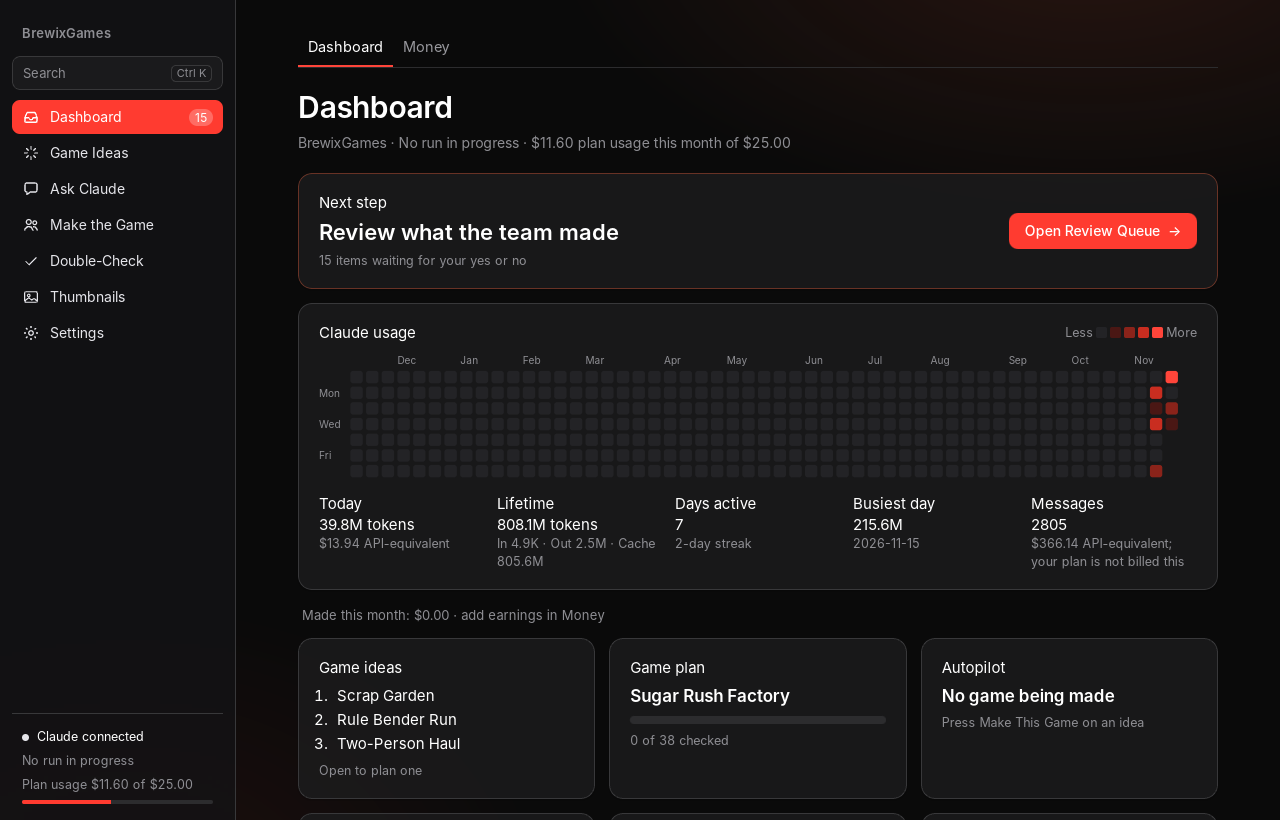
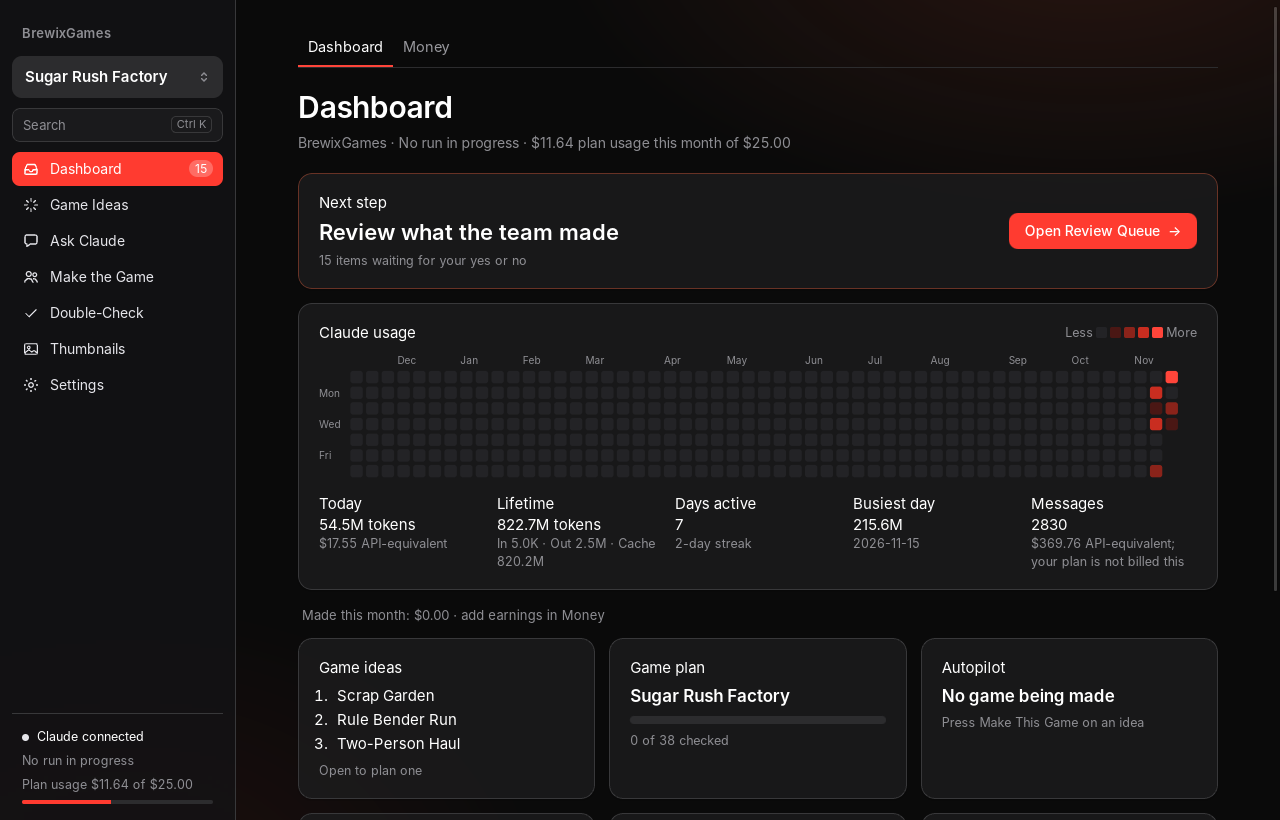
One game picker for every tab; Autopilot is just "chime in"; nothing gets stuck
- A game picker at the top of the sidebar (with "+ New game"). Every tab
  follows it: Autopilot, Game Brief, Game Plan, Graphics, Changes, Player
  Test, Thumbnails and Ask Claude. It is remembered after a restart, and
  starting a brief or a game switches to it. The per-page pickers are gone.
- Make the Game opens on Autopilot. The page is now: a big chime-in box,
  anything ready for review (Approve, or write notes and Approve sends
  them back for a revision first, with the agents' questions listed), a
  six-step progress line, and who is working now. Budget, pause, every
  job and the team board are under "Everything the team did". A paused
  game or one waiting for budget says so at the top with one button.
- Nothing is ever "stuck" and there is no Try Again: after a job fails all
  its tries, Lead works out a new approach; after two rescues it keeps
  trying every 30 minutes until it works (the game's budget is the only
  limit). Andrew is told once if a job is having a hard time.

Claude-Session: https://claude.ai/code/session_01JP9P4TNkw9s9Dv5PKeAm76

diff --git a/app/ui/app.js b/app/ui/app.js
@@ -237,6 +237,48 @@ function route() {
 }
 window.addEventListener("hashchange", route);
 
+// ---------- the game you are working on ----------
+// One picker at the top of the sidebar. Every tab follows it, and it is
+// remembered after a restart.
+try { state.game = localStorage.getItem("game") || ""; } catch { state.game = ""; }
+state.projects = [];
+async function gameList() {
+  const [ap, projects, briefs, plans] = await Promise.all([invoke("autopilot_list").catch(() => []), invoke("projects_list").catch(() => []), invoke("brief_list").catch(() => []), invoke("plans_list").catch(() => [])]);
+  state.projects = projects;
+  const m = new Map();
+  ap.forEach((a) => m.set(a.slug, a.title));
+  briefs.forEach((b) => { if (!m.has(b.slug)) m.set(b.slug, b.title); });
+  plans.forEach((p) => { if (p.slug && !m.has(p.slug)) m.set(p.slug, p.title); });
+  projects.forEach((p) => { const g = p.replace(/^projects\//, ""); if (!m.has(g)) m.set(g, g); });
+  return [...m].map(([slug, title]) => ({ slug, title }));
+}
+// Point every page's notion of "the game" at the picked one.
+function syncGame() {
+  const pr = `projects/${state.game}`;
+  state.project = state.projects.includes(pr) ? pr : "";
+  state.chatGame = state.game;
+}
+function setGame(slug, redraw = true) {
+  if (!slug || slug === state.game) return;
+  state.game = slug;
+  try { localStorage.setItem("game", slug); } catch {}
+  syncGame();
+  drawGamePick();
+  if (redraw) route();
+}
+async function drawGamePick() {
+  const sel = $("game-pick");
+  if (!sel) return;
+  const games = await gameList();
+  if (!games.some((g) => g.slug === state.game)) { state.game = (games[0] && games[0].slug) || ""; try { localStorage.setItem("game", state.game); } catch {} }
+  syncGame();
+  sel.replaceChildren(
+    ...(games.length ? games.map((g) => el("option", { value: g.slug, selected: g.slug === state.game }, g.title)) : [el("option", { value: "" }, "No game yet")]),
+    el("option", { value: "__new" }, "+ New game"));
+  sel.onchange = () => { if (sel.value === "__new") { sel.value = state.game; location.hash = "#autopilot/new"; } else setGame(sel.value); };
+}
+drawGamePick();
+
 // =====================================================================
 // 0. Home: game ideas from the top 100 Roblox games and current trends
 // =====================================================================
@@ -343,9 +385,10 @@ async function viewBrief(arg) {
   const briefs = await invoke("brief_list");
   // A remembered idea that was deleted since falls back to the newest one.
   const known = (x) => x && briefs.some((b) => b.slug === x);
-  const slug = known(arg) ? arg : known(state.briefSlug) ? state.briefSlug : (briefs[0] && briefs[0].slug);
+  const slug = known(arg) ? arg : known(state.game) ? state.game : known(state.briefSlug) ? state.briefSlug : (briefs[0] && briefs[0].slug);
+  if (slug && slug !== state.game) setGame(slug, false);
   const name = el("input", { id: "brief-name", placeholder: "Name your game idea" });
-  const start = el("button", { class: "btn primary", id: "brief-new", onclick: async () => { try { state.briefSlug = await invoke("brief_create", { title: name.value }); viewBrief(state.briefSlug); } catch (e) { toast(String(e), true); } } }, "Start a Brief");
+  const start = el("button", { class: "btn primary", id: "brief-new", onclick: async () => { try { state.briefSlug = await invoke("brief_create", { title: name.value }); setGame(state.briefSlug, false); viewBrief(state.briefSlug); } catch (e) { toast(String(e), true); } } }, "Start a Brief");
   const newRow = el("div", { class: "inline" }, name, start);
   if (!slug) {
     showIf(nav, page(head("Game Brief", "Write down everything you want in the game, with images, before the team plans it"),
@@ -610,7 +653,7 @@ async function viewPlans(id) {
         el("div", {}, "On Home, press Plan This Game on an idea. Planner writes the full plan with mockups of the map, HUD, shop and character effects. Nothing is built until you check every item."))));
     return;
   }
-  const p = plans.find((x) => x.run_id === id) || plans[0];
+  const p = plans.find((x) => x.run_id === id) || plans.find((x) => x.slug === state.game) || plans[0];
   const ap = p.approvals || {};
   const checked = (ap.checked || {}), notes = (ap.notes || {});
   const bar = el("div", { class: "plan-bar" }, el("div", { class: "plan-fill", style: `width:${p.total ? Math.round((100 * p.done) / p.total) : 0}%` }));
@@ -1154,7 +1197,7 @@ async function startAutopilot(title, idea, slug) {
     go.disabled = true;
     try {
       const r = await invoke("autopilot_start", { title: name.value.trim() || "My game", idea, budgetUsd: parseFloat(budget.value) || 0, slug: slug || null });
-      closeSheet(); toast("Approved. The agents are starting on the plan."); location.hash = "#autopilot/" + r.slug;
+      closeSheet(); toast("Approved. The agents are starting on the plan."); setGame(r.slug, false); location.hash = "#autopilot/" + r.slug;
     } catch (e) { toast(String(e), true); go.disabled = false; }
   });
   sheet("Make this game",
@@ -1172,9 +1215,9 @@ function jobRow(j) {
     el("div", { class: "grow" },
       el("div", { class: "row-title" }, `${cap(j.agent)}${j.source.startsWith("agent:") ? " (asked by " + cap(j.source.slice(6)) + ")" : j.source === "andrew" ? " (your note)" : ""}`),
       el("div", { class: "row-sub" }, j.status === "working" ? el("span", { class: "ap-live", id: "live-" + j.run_id }, state.apLive[j.run_id] || "Working…") : (j.summary || j.text)),
-      j.attempt ? el("div", { class: "note" }, `Try ${j.attempt + 1} of 4${j.attempt >= 2 ? " (stronger model)" : ""}${j.rescuing ? ", then Lead works out a better approach" : ""}`) : null),
+      j.attempt ? el("div", { class: "note" }, `Try ${j.attempt + 1} of 4${j.attempt >= 2 ? " (stronger model)" : ""}${j.rescuing ? "; Lead is working out a new approach" : ""}`) : null),
     el("span", { class: j.stuck ? "pill red-soft" : j.status === "working" ? "pill red" : j.status === "done" ? "pill white" : "pill" },
-      j.stuck ? "Stuck" : j.rescuing ? "Lead is rescuing it" : j.launch_failed || (j.status === "queued" && j.retry_at) ? `Retrying ${j.retry_at ? "at " + new Date(j.retry_at).toLocaleTimeString([], { hour: "numeric", minute: "2-digit" }) : "soon"}` : ({ queued: "Waiting", working: "Working", paused: "Paused", done: "Done", failed: "Retrying" })[j.status] || cap(j.status)),
+      j.rescuing ? "Lead is finding a fix" : j.launch_failed || (j.status === "queued" && j.retry_at) ? `Retrying ${j.retry_at ? "at " + new Date(j.retry_at).toLocaleTimeString([], { hour: "numeric", minute: "2-digit" }) : "soon"}` : ({ queued: "Waiting", working: "Working", paused: "Paused", done: "Done", failed: "Retrying" })[j.status] || cap(j.status)),
     j.output ? el("button", { class: "link", onclick: () => openText(j.output) }, "Open") : null,
     el("button", { class: "link", onclick: () => (location.hash = "#run/" + j.run_id) }, "Details"));
 }
@@ -1183,63 +1226,69 @@ async function viewAutopilot(slug) {
   await freshStatus();
   state.apLive ||= {};
   const games = await invoke("autopilot_list");
-  if (!games.length) {
-    const t = el("input", { type: "text", id: "ap-new-title", placeholder: "Game name" });
-    const idea = el("textarea", { id: "ap-new-idea", rows: 4, placeholder: "Your idea, in your own words. A sentence is enough; the planner fills in the rest and you approve the plan." });
-    return showIf(nav, page(head("Autopilot", "Approve an idea and the agents make the whole game. You supervise."),
+  if (slug && slug !== "new" && slug !== state.game) setGame(slug, false);
+  const cur = slug === "new" ? null : games.find((g) => g.slug === (slug || state.game));
+  if (!cur) {
+    // No autopilot for this game yet: one box for the idea, one button.
+    const named = slug === "new" ? "" : ((await gameList()).find((g) => g.slug === state.game) || {}).title || "";
+    const t = el("input", { type: "text", id: "ap-new-title", placeholder: "Game name", value: named });
+    const idea = el("textarea", { id: "ap-new-idea", rows: 4, placeholder: "Your idea, in your own words. A sentence is enough; the agents work out the rest and you approve each finished part." });
+    return showIf(nav, page(head("Make a game", "Say the idea once. The agents make it; you chime in whenever you like."),
       el("div", { class: "card" }, el("div", { class: "field" }, el("label", { for: "ap-new-title" }, "Game name"), t), idea,
-        el("div", { class: "inline", style: "margin-top:10px" }, el("button", { class: "btn primary", id: "ap-new", onclick: () => startAutopilot(t.value.trim(), idea.value.trim()) }, "Make This Game"),
-          el("span", { class: "note" }, "Or press Make This Game on an idea in Game Ideas or Game Brief.")))));
+        el("div", { class: "inline", style: "margin-top:10px" }, el("button", { class: "btn primary", id: "ap-new", onclick: () => startAutopilot(t.value.trim(), idea.value.trim(), named && slug !== "new" ? state.game : null) }, "Make This Game")))));
   }
-  const cur = games.find((g) => g.slug === slug) || games[0];
   let v;
   try { v = await invoke("autopilot_view", { slug: cur.slug }); } catch (e) { return showIf(nav, page(head("Autopilot"), el("div", { class: "card" }, String(e)))); }
-  const pick = games.length > 1 ? el("select", { onchange: (e) => (location.hash = "#autopilot/" + e.target.value) }, games.map((g) => el("option", { value: g.slug, selected: g.slug === v.slug }, g.title))) : null;
   const used = v.spent_usd + v.reserved_usd;
-  const ctl = (action, label, extra) => el("button", { class: "btn secondary", id: "ap-" + action, onclick: async () => { try { await invoke("autopilot_control", { slug: v.slug, action, budgetUsd: extra ? extra() : null }); viewAutopilot(v.slug); } catch (e) { toast(String(e), true); } } }, label);
-  const anyStuck = v.milestones.some((m) => m.jobs.some((j) => j.stuck));
-  const reviews = v.milestones.filter((m) => m.status === "review").map((m) => {
-    const notes = el("textarea", { class: "ap-review-notes", rows: 2, placeholder: "Notes for a revision (one per line). Leave empty to approve as it is." });
-    const drafts = m.jobs.filter((j) => j.status === "done");
-    const qs = [...new Map(drafts.flatMap((j) => (j.questions || []).map((q) => [q.toLowerCase(), { q, who: j.agent }]))).values()].slice(0, 10);
-    return el("div", { class: "card ap-review", "data-milestone": m.id },
-      el("div", { class: "inline", style: "justify-content:space-between" }, el("h2", { style: "margin:0" }, `Ready for your review: ${m.title}`), MS_PILL(m.status)),
-      el("p", { class: "note" }, m.review),
-      m.id === "plan" && v.plan_run ? el("button", { class: "btn secondary", onclick: () => (location.hash = "#plans/" + v.plan_run) }, "Open the Game Plan") : null,
-      m.id === "build" && v.project ? el("button", { class: "btn secondary", onclick: async () => { try { const pth = await invoke("project_open_in_studio", { project: v.project }); toast(`Opened in Studio: ${pth.split(/[\\/]/).pop()}. Nothing was published.`); } catch (e) { toast(String(e), true); } } }, "Play It in Roblox Studio") : null,
-      el("div", { class: "ap-drafts" }, drafts.map((j) => el("div", { class: "ap-draft" },
-        el("div", { class: "row-title" }, cap(j.agent)), el("div", { class: "note" }, j.summary || ""),
-        j.mockups.length ? el("div", { class: "ap-mocks" }, j.mockups.slice(0, 6).map((mk) => el("button", { class: "ap-mock", onclick: async () => sheet(mk.split("/").pop(), lazyImg(mk, { class: "plan-mock" })) }, lazyImg(mk)))) : null,
-        j.output ? el("button", { class: "link", onclick: () => openText(j.output) }, "Read it") : null))),
-      qs.length ? el("div", { class: "ap-questions" }, el("div", { class: "row-title" }, "Questions for you"), el("div", { class: "note" }, "The agents picked a safe default for each. Answer any you care about in the notes; the rest stay as they are."),
-        el("ul", {}, qs.map((x) => el("li", {}, x.q, el("span", { class: "note" }, ` (${cap(x.who)})`))))) : null,
-      notes,
-      el("div", { class: "inline", style: "margin-top:8px" },
-        el("button", { class: "btn primary ap-approve", onclick: async (e) => { e.currentTarget.disabled = true; try { await invoke("autopilot_review", { slug: v.slug, milestone: m.id, approve: true, notes: notes.value }); toast(`Approved: ${m.title}.`); } catch (er) { toast(String(er), true); } viewAutopilot(v.slug); } }, "Approve"),
-        el("button", { class: "btn secondary ap-revise", onclick: async (e) => { if (!notes.value.trim()) { toast("Write what to change first.", true); return; } e.currentTarget.disabled = true; try { await invoke("autopilot_review", { slug: v.slug, milestone: m.id, approve: false, notes: notes.value }); toast("Sent. The agents are revising it."); } catch (er) { toast(String(er), true); } viewAutopilot(v.slug); } }, "Send Notes for a Revision")));
-  });
-  const chime = el("textarea", { id: "ap-note", rows: 2, placeholder: "Chime in any time: what you want changed or added. Enter sends." });
+  const ctl = (action, label, extra, cls = "btn secondary") => el("button", { class: cls, id: "ap-" + action, onclick: async () => { try { await invoke("autopilot_control", { slug: v.slug, action, budgetUsd: extra ? extra() : null }); viewAutopilot(v.slug); } catch (e) { toast(String(e), true); } } }, label);
+  const raise = () => { const n = parseFloat(prompt("New budget for this game ($)", (v.budget_usd * 1.5).toFixed(2))); return isNaN(n) ? v.budget_usd : n; };
+  // Chime in: the main thing on this page.
+  const chime = el("textarea", { id: "ap-note", rows: 3, placeholder: "Chime in: anything you want changed, added or fixed. Enter sends. The team works out the rest." });
   chime.value = state.apNote || "";
   chime.addEventListener("input", () => { state.apNote = chime.value; });
   const sendNote = async () => { const t = chime.value.trim(); if (!t) return; try { await invoke("autopilot_note", { slug: v.slug, text: t, agent: null }); state.apNote = ""; chime.value = ""; toast("Sent to the team."); viewAutopilot(v.slug); } catch (e) { toast(String(e), true); } };
   chime.addEventListener("keydown", (e) => { if (e.key === "Enter" && !e.shiftKey) { e.preventDefault(); sendNote(); } });
+  const reviews = v.milestones.filter((m) => m.status === "review").map((m) => {
+    const notes = el("textarea", { class: "ap-review-notes", rows: 2, placeholder: "Anything to change? Leave empty to approve." });
+    const drafts = m.jobs.filter((j) => j.status === "done");
+    const qs = [...new Map(drafts.flatMap((j) => (j.questions || []).map((q) => [q.toLowerCase(), { q, who: j.agent }]))).values()].slice(0, 10);
+    return el("div", { class: "card ap-review", "data-milestone": m.id },
+      el("h2", { style: "margin:0 0 4px" }, `Ready for you: ${m.title}`),
+      el("p", { class: "note", style: "margin:0 0 8px" }, m.review),
+      el("div", { class: "inline", style: "flex-wrap:wrap" },
+        m.id === "plan" && v.plan_run ? el("button", { class: "btn secondary", onclick: () => (location.hash = "#plans/" + v.plan_run) }, "Open the Plan") : null,
+        m.id === "build" && v.project ? el("button", { class: "btn secondary", onclick: async () => { try { const pth = await invoke("project_open_in_studio", { project: v.project }); toast(`Opened in Studio: ${pth.split(/[\\/]/).pop()}. Nothing was published.`); } catch (e) { toast(String(e), true); } } }, "Play It in Roblox Studio") : null),
+      el("div", { class: "ap-drafts" }, drafts.map((j) => el("div", { class: "ap-draft" },
+        el("div", { class: "row-title" }, cap(j.agent)), el("div", { class: "note" }, j.summary || ""),
+        j.mockups.length ? el("div", { class: "ap-mocks" }, j.mockups.slice(0, 6).map((mk) => el("button", { class: "ap-mock", onclick: async () => sheet(mk.split("/").pop(), lazyImg(mk, { class: "plan-mock" })) }, lazyImg(mk)))) : null,
+        j.output ? el("button", { class: "link", onclick: () => openText(j.output) }, "Read it") : null))),
+      qs.length ? el("div", { class: "ap-questions" }, el("div", { class: "row-title" }, "Questions for you"), el("div", { class: "note" }, "Each already has a safe default. Answer only the ones you care about."),
+        el("ul", {}, qs.map((x) => el("li", {}, x.q, el("span", { class: "note" }, ` (${cap(x.who)})`))))) : null,
+      notes,
+      el("div", { class: "inline", style: "margin-top:8px" },
+        el("button", { class: "btn primary ap-approve", onclick: async (e) => { e.currentTarget.disabled = true; try { await invoke("autopilot_review", { slug: v.slug, milestone: m.id, approve: !notes.value.trim(), notes: notes.value }); toast(notes.value.trim() ? "Sent. The agents are revising it." : `Approved: ${m.title}.`); } catch (er) { toast(String(er), true); } viewAutopilot(v.slug); } }, "Approve"),
+        el("span", { class: "note" }, "With notes, Approve sends them back for a revision first.")));
+  });
+  // Progress: six steps in a line.
+  const steps = el("div", { class: "ap-steps" }, v.milestones.map((m) => el("div", { class: "ap-step " + m.status, title: m.title }, el("span", { class: "dot" }), el("span", { class: "lbl" }, m.title))));
+  const active = v.milestones.flatMap((m) => m.jobs).filter((j) => ["working", "queued", "paused"].includes(j.status) || j.rescuing);
   const nowM = v.milestones.find((m) => m.status === "working" || m.status === "revising");
   showIf(nav, page(
-    head(v.title, el("span", {}, `${AP_STATUS[v.status] || v.status}${nowM ? " · " + nowM.title : ""} · ${v.working} agent${v.working === 1 ? "" : "s"} working`), pick),
-    v.why ? el("div", { class: "card warn-card" }, v.why) : null,
-    el("div", { class: "card" },
-      el("div", { class: "inline", style: "justify-content:space-between" }, el("div", { class: "row-title" }, `Budget: ${usd(v.spent_usd, 2)} spent${v.reserved_usd ? ", " + usd(v.reserved_usd, 2) + " running" : ""} of ${usd(v.budget_usd, 2)}`),
-        el("div", { class: "inline" }, v.status === "running" ? ctl("pause", "Pause") : v.status !== "done" ? ctl("resume", "Resume") : null,
-          ctl("budget", "Raise Budget", () => { const n = parseFloat(prompt("New budget for this game ($)", (v.budget_usd * 1.5).toFixed(2))); return isNaN(n) ? v.budget_usd : n; }),
-          anyStuck ? ctl("retry", "Try Again") : null)),
-      el("div", { class: "bar", style: "margin-top:8px" }, el("div", { style: `width:${Math.min(100, (100 * used) / Math.max(0.01, v.budget_usd))}%` }))),
+    head(v.title, el("span", {}, `${({ running: "Being made", paused: "Paused", budget: "Waiting for more budget", done: "Done" })[v.status] || v.status}${nowM ? " · " + nowM.title : ""}`)),
+    v.status === "paused" ? el("div", { class: "card warn-card" }, el("div", {}, "Paused. Nothing new starts until you resume."), el("div", { style: "margin-top:8px" }, ctl("resume", "Resume", null, "btn primary"))) : null,
+    v.status === "budget" ? el("div", { class: "card warn-card" }, el("div", {}, v.why || "This game's budget is used up."), el("div", { style: "margin-top:8px" }, ctl("budget", "Raise Budget", raise, "btn primary"))) : null,
+    el("div", { class: "card ap-chime" }, chime, el("div", { class: "inline", style: "margin-top:8px" }, el("button", { class: "btn primary", id: "ap-send", onclick: sendNote }, "Send"), el("span", { class: "note" }, "Problems are handled by the team: failed work is retried and fixed on its own."))),
     ...reviews,
-    el("div", { class: "card" }, el("div", { class: "row-title" }, "Chime in"), chime, el("div", { class: "inline", style: "margin-top:8px" }, el("button", { class: "btn primary", id: "ap-send", onclick: sendNote }, "Send"), el("span", { class: "note" }, "The right agent picks it up, and every later job reads it."))),
-    el("div", { class: "section" }, el("div", { class: "section-label" }, "Milestones"),
-      ...v.milestones.map((m) => el("details", { class: "card ap-ms", open: m.status === "working" || m.status === "revising", "data-ms": m.id },
-        el("summary", { class: "inline", style: "justify-content:space-between" }, el("span", { class: "row-title" }, m.title), MS_PILL(m.status)),
-        m.jobs.length ? el("div", { class: "list" }, m.jobs.map(jobRow)) : el("div", { class: "note" }, m.status === "waiting" ? "Starts when the milestone before it is ready." : "")))),
-    el("div", { class: "section" }, el("div", { class: "section-label" }, "Team board"),
+    steps,
+    el("div", { class: "section" }, el("div", { class: "section-label" }, active.length ? `Working now (${active.filter((j) => j.status === "working").length} agents)` : "Working now"),
+      active.length ? el("div", { class: "list" }, active.map(jobRow)) : el("div", { class: "note" }, v.status === "done" ? "Every part is approved." : "Waiting for your review above, or starting the next part.")),
+    el("details", { class: "ap-more" }, el("summary", { class: "link" }, "Everything the team did"),
+      el("div", { class: "inline", style: "margin:10px 0" }, el("span", { class: "note" }, `Budget: ${usd(v.spent_usd, 2)} of ${usd(v.budget_usd, 2)} used`), v.status === "running" ? ctl("pause", "Pause") : v.status === "paused" ? ctl("resume", "Resume") : null, ctl("budget", "Raise Budget", raise)),
+      el("div", { class: "bar", style: "margin-bottom:12px" }, el("div", { style: `width:${Math.min(100, (100 * used) / Math.max(0.01, v.budget_usd))}%` })),
+      ...v.milestones.map((m) => el("details", { class: "card ap-ms", "data-ms": m.id },
+        el("summary", {}, el("span", { class: "row-title" }, m.title), MS_PILL(m.status)),
+        m.jobs.length ? el("div", { class: "list" }, m.jobs.map(jobRow)) : el("div", { class: "note" }, "Not started yet."))),
+      el("div", { class: "section-label", style: "margin-top:14px" }, "Team board"),
       el("div", { class: "list ap-board" }, v.board.map((b) => el("div", { class: "srow" }, el("div", { class: "grow" }, el("div", { class: "label" }, `${cap(b.from)}${b.to ? " → " + cap(b.to) : ""}`), el("div", { class: "note" }, b.text)), el("span", { class: "note" }, ago(b.at))))))));
 }
 T.event.listen("run-line", (ev) => {
@@ -2001,6 +2050,12 @@ function studioButton() {
 }
 
 async function projectPicker(onChange) {
+  // The game is picked once, at the top of the sidebar.
+  state.projects = await invoke("projects_list").catch(() => []);
+  syncGame();
+  return null;
+}
+async function projectPickerOld(onChange) {
   const projects = await invoke("projects_list").catch(() => []);
   if (!state.project || !projects.includes(state.project)) state.project = projects[0] || "";
   const sel = el("select", { id: "project-pick", style: "width:260px" }, projects.length ? projects.map((p) => el("option", { value: p }, p.replace("projects/", ""))) : el("option", { value: "" }, "No projects yet"));
@@ -2109,13 +2164,8 @@ async function viewChat() {
     el("optgroup", { label: "Claude (your subscription)" }, el("option", { value: "claude:", selected: cur === "claude:" }, "Default"), models.map((m) => el("option", { value: `claude:${m.id}`, selected: cur === `claude:${m.id}` }, MODEL_NAMES[m.id] || m.id))),
     el("optgroup", { label: local.length ? "Free on this computer (Ollama)" : "Ollama: no local models yet (Settings)" }, local.map((m) => el("option", { value: `ollama:${m}`, selected: cur === `ollama:${m}` }, `${m} · free, local`))));
   modelPick.addEventListener("change", async () => { try { await invoke("chat_model_set", { choice: modelPick.value }); toast(modelPick.value.startsWith("ollama:") ? "Using your free local model." : "Using Claude."); } catch (e) { toast(String(e), true); } viewChat(); });
-  // Which game Ask Claude is helping with (remembered between visits).
-  const games = projects.map((x) => x.replace("projects/", ""));
-  if (state.chatGame === undefined) { try { state.chatGame = localStorage.getItem("chatGame") || ""; } catch { state.chatGame = ""; } }
-  if (state.chatGame && !games.includes(state.chatGame)) state.chatGame = "";
-  const gamePick = el("select", { id: "chat-game", class: "model-select", title: "The game Ask Claude is helping with" },
-    el("option", { value: "" }, "No game"), games.map((g) => el("option", { value: g, selected: g === state.chatGame }, `Game: ${g}`)));
-  gamePick.addEventListener("change", () => { state.chatGame = gamePick.value; try { localStorage.setItem("chatGame", state.chatGame); } catch {} drawQuick(); });
+  // The game Ask Claude helps with is the one picked at the top of the sidebar.
+  state.chatGame = state.game || "";
   const who = engine === "ollama" ? "Local model" : "Claude";
   const input = el("textarea", { id: "chat-input", placeholder: "Ask anything, paste a link, or drop images, videos or files here.", style: "min-height:64px" });
   const tray = el("div", { class: "att-tray", id: "chat-tray" });
@@ -2151,7 +2201,7 @@ async function viewChat() {
     ["What should I do next?", (g) => `Look at where my game ${g} is now (brief, plan, score, latest checks) and tell me the 3 most useful next steps, in plain words.`],
     ["Is it fun yet?", (g) => `Be honest: from what is built in ${g}, what would a 10-year-old enjoy in the first minute, and what would make them leave? Short.`],
   ];
-  const drawQuick = () => quick.replaceChildren(...(state.chatGame ? QUICK.map(([label, make]) => el("button", { class: "chip quick", onclick: () => !state.chatBusy && sendText(make(state.chatGame)) }, label)) : [el("span", { class: "note" }, "Pick a game above to get notes and next steps for it.")]));
+  const drawQuick = () => quick.replaceChildren(...(state.chatGame ? QUICK.map(([label, make]) => el("button", { class: "chip quick", onclick: () => !state.chatBusy && sendText(make(state.chatGame)) }, label)) : [el("span", { class: "note" }, "Pick a game at the top of the sidebar to get notes and next steps for it.")]));
   drawQuick();
   const msgs = chat.messages.map((m) =>
     el("div", { class: "bubble " + (m.role === "you" ? "me" : "them") + (m.failed ? " failed" : "") },
@@ -2164,7 +2214,7 @@ async function viewChat() {
     el("div", { class: "empty", style: "padding:56px 20px" }, el("div", { class: "ic-big", html: ICONS.chat }), el("div", { class: "empty-title" }, `Ask ${who} anything`),
       el("div", {}, "Pick a game to talk about it. Drop screenshots, videos, files or links and it will look at them. Each message counts toward your plan usage.")));
   const pageEl = el("div", { class: "page chat-page" },
-    head("Ask Claude", runningSubtitle(), el("div", { class: "inline" }, gamePick, chat.messages.length ? el("button", { class: "btn secondary", onclick: async () => { await invoke("chat_reset"); viewChat(); } }, "New Chat") : null)),
+    head("Ask Claude", runningSubtitle(), el("div", { class: "inline" }, chat.messages.length ? el("button", { class: "btn secondary", onclick: async () => { await invoke("chat_reset"); viewChat(); } }, "New Chat") : null)),
     list,
     el("div", { class: "card chat-compose" }, quick, tray, input,
       el("div", { class: "inline", style: "justify-content:space-between;margin-top:10px" },

diff --git a/app/ui/index.html b/app/ui/index.html
@@ -10,12 +10,13 @@
   <div class="app">
     <aside class="sidebar">
       <div class="sidebar-title">BrewixGames <span id="app-version" class="app-version"></span></div>
+      <div class="game-pick-wrap"><select id="game-pick" title="The game you are working on: every tab follows it"></select></div>
       <button class="search-hint" id="search-hint">Search <kbd>Ctrl K</kbd></button>
       <nav id="nav">
         <a href="#home" data-route="home"><span class="ic" data-icon="tray"></span>Dashboard<span id="nav-count" class="nav-count"></span></a>
         <a href="#ideas" data-route="ideas"><span class="ic" data-icon="spark"></span>Game Ideas</a>
         <a href="#chat" data-route="chat"><span class="ic" data-icon="chat"></span>Ask Claude</a>
-        <a href="#brief" data-route="make"><span class="ic" data-icon="people"></span>Make the Game</a>
+        <a href="#autopilot" data-route="make"><span class="ic" data-icon="people"></span>Make the Game</a>
         <a href="#score" data-route="check"><span class="ic" data-icon="check"></span>Double-Check</a>
         <a href="#thumbnails" data-route="thumbnails"><span class="ic" data-icon="image"></span>Thumbnails</a>
         <a href="#settings" data-route="settings"><span class="ic" data-icon="gear"></span>Settings</a>

diff --git a/app/ui/styles.css b/app/ui/styles.css
@@ -426,3 +426,16 @@ img.lazy.in { opacity: 1; }
 .ap-questions { background: #2C2C2E; border-radius: 12px; padding: 12px 14px; margin: 10px 0; }
 .ap-questions ul { margin: 8px 0 0 18px; padding: 0; }
 .ap-questions li { margin: 4px 0; }
+/* Game picker and simpler Autopilot */
+.game-pick-wrap { padding: 0 0 10px; }
+#game-pick { width: 100%; font-weight: 600; }
+.ap-chime #ap-note { width: 100%; font-size: 15px; }
+.ap-steps { display: flex; gap: 6px; margin: 18px 0 6px; }
+.ap-step { flex: 1; display: flex; flex-direction: column; align-items: center; gap: 6px; text-align: center; font-size: 12px; color: #8E8E93; }
+.ap-step .dot { width: 14px; height: 14px; border-radius: 50%; background: #3A3A3C; }
+.ap-step.approved .dot { background: #fff; }
+.ap-step.review .dot { background: #FFD60A; }
+.ap-step.working .dot, .ap-step.revising .dot { background: #FF3B30; box-shadow: 0 0 0 4px rgba(255,59,48,0.25); }
+.ap-step.approved, .ap-step.working, .ap-step.review, .ap-step.revising { color: #fff; }
+.ap-more { margin-top: 18px; }
+.ap-more > summary { cursor: pointer; }

diff --git a/app/src-tauri/src/autopilot.rs b/app/src-tauri/src/autopilot.rs
@@ -23,8 +23,8 @@ use std::path::{Path, PathBuf};
 use crate::changes::{self, Change, Spec};
 
 pub const MAX_ATTEMPTS: u32 = 4;
-/// After all tries fail, Lead rescues the job this many times before it
-/// counts as stuck.
+/// After all tries fail, Lead rescues the job right away this many times;
+/// after that it keeps rescuing every 30 minutes (the budget is the limit).
 pub const MAX_RESCUES: usize = 2;
 pub const STRONG_MODEL: &str = "claude-opus-5-5";
 /// Extra jobs agents may start per milestone (stops runaway chains).
@@ -524,7 +524,7 @@ pub fn on_finish(root: &Path, c: &Change) {
                 let why: Vec<String> = c.checks.iter().filter(|k| !k.passed).map(|k| format!("- {}: {}", k.name, k.detail.chars().take(300).collect::<String>())).collect();
                 let why = if why.is_empty() { c.summary.clone().unwrap_or_else(|| "the run did not finish".into()) } else { why.join("\n") };
                 let rescues = mine(root, &slug).iter().filter(|x| x.key.as_deref().map(|k| k.starts_with("rescue|") && k.ends_with(&format!("|{key}"))).unwrap_or(false)).count();
-                if c.attempt + 1 >= MAX_ATTEMPTS && rescues < MAX_RESCUES {
+                if c.attempt + 1 >= MAX_ATTEMPTS {
                     // Out of tries: Lead works out why and how, then the job
                     // starts over with that advice.
                     let fails: Vec<String> = mine(root, &slug).iter().filter(|x| x.key.as_deref() == Some(&key) && x.status == "failed").map(|x| format!("runs/{}", x.run_id)).collect();
@@ -532,15 +532,22 @@ pub fn on_finish(root: &Path, c: &Change) {
                         "Rescue: {agent} failed this job {MAX_ATTEMPTS} times: \"{text}\". What failed last time:\n{why}\nIts attempts are in {folders}. Read them and find out why it keeps failing. Then write change.md: the cause, and exactly what {agent} must do differently (which inputs to use, what to cut or simplify, how to pass each failing check). If an input from another agent is missing or wrong, start that agent with requests.json. Do not do {agent}'s job yourself.",
                         agent = c.agent, text = c.text.chars().take(300).collect::<String>(), folders = fails.join(", ")
                     );
-                    post(&mut a, "autopilot", Some("lead"), &format!("{} failed {MAX_ATTEMPTS} times; Lead is working out why and how to fix it (rescue {} of {MAX_RESCUES}).", c.agent, rescues + 1));
-                    let _ = queue(root, &mut a, &mid, "lead", &job, &format!("rescue|{}|{key}", rescues + 1), 0, "autopilot", None, "change");
-                } else if c.attempt + 1 < MAX_ATTEMPTS {
+                    // It never gives up: after the first rescues it keeps trying a new
+                    // approach every 30 minutes (only the game's budget stops it).
+                    let wait = if rescues < MAX_RESCUES { 0 } else { 30 };
+                    post(&mut a, "autopilot", Some("lead"), &format!("{} failed {MAX_ATTEMPTS} times; Lead is working out why and a new way to do it{}.", c.agent, if wait > 0 { format!(" (rescue {}, in {wait} min)", rescues + 1) } else { String::new() }));
+                    if rescues == MAX_RESCUES {
+                        crate::notify::send_quiet(crate::notify::Kind::Failed, &format!("{}: {} is having a hard time", a.title, c.agent), &[c.text.chars().take(200).collect(), "The team keeps trying new approaches by itself. A note from you can steer it.".into()]);
+                    }
+                    if let Ok(n) = queue(root, &mut a, &mid, "lead", &job, &format!("rescue|{}|{key}", rescues + 1), 0, "autopilot", None, "change") {
+                        if wait > 0 {
+                            changes::delay(root, &n.id, wait);
+                        }
+                    }
+                } else {
                     let next = c.attempt + 1;
                     post(&mut a, "autopilot", Some(&c.agent), &format!("{} did not pass ({}); trying again{} (attempt {} of {MAX_ATTEMPTS}).", c.agent, why.lines().next().unwrap_or("").trim_start_matches("- "), if next >= 2 { " with a stronger model" } else { "" }, next + 1));
                     let _ = queue(root, &mut a, &mid, &c.agent, &c.text, &key, next, &c.source, Some(&why), &c.kind);
-                } else {
-                    post(&mut a, "autopilot", Some("andrew"), &format!("Stuck: {} could not finish \"{}\" after {MAX_ATTEMPTS} tries. Everything else keeps going. Send a note to steer it, or press Try Again.\n{why}", c.agent, c.text.chars().take(100).collect::<String>()));
-                    crate::notify::send_quiet(crate::notify::Kind::Failed, &format!("{}: {} is stuck", a.title, c.agent), &[c.text.chars().take(200).collect(), why.chars().take(500).collect()]);
                 }
             }
             "paused" => post(&mut a, "autopilot", None, "Claude's usage limit is reached. Work continues by itself when it resets."),
@@ -726,7 +733,7 @@ pub fn view(root: &Path, slug: &str) -> Result<Value, String> {
             let key = c.key.clone().unwrap_or_default();
             let rescues = all.iter().filter(|x| x.key.as_deref().map(|k| k.starts_with("rescue|") && k.ends_with(&format!("|{key}"))).unwrap_or(false)).count();
             let out_of_tries = stuck(&c);
-            json!({ "id": c.id, "agent": c.agent, "text": c.text, "status": c.status, "stuck": out_of_tries && rescues >= MAX_RESCUES, "rescuing": out_of_tries && rescues < MAX_RESCUES, "launch_failed": changes::launch_failed(&c), "retry_at": c.not_before, "questions": questions, "attempt": c.attempt, "summary": c.summary, "cost_usd": c.cost_usd, "run_id": c.run_id, "source": c.source,
+            json!({ "id": c.id, "agent": c.agent, "text": c.text, "status": c.status, "stuck": false, "rescuing": out_of_tries, "rescues": rescues, "launch_failed": changes::launch_failed(&c), "retry_at": c.not_before, "questions": questions, "attempt": c.attempt, "summary": c.summary, "cost_usd": c.cost_usd, "run_id": c.run_id, "source": c.source,
                     "output": d.join(&out).is_file().then(|| format!("runs/{}/{out}", c.run_id)), "mockups": mocks })
         }).collect();
         json!({ "id": m.id, "title": m.title, "status": m.status, "review": tpl.get(i).map(|t| t.2).unwrap_or(""), "jobs": jobs })

diff --git a/scripts/ui_new_tabs.py b/scripts/ui_new_tabs.py
@@ -147,6 +147,17 @@ try:
     d.find_element(By.ID, "brief-plan").click(); time.sleep(2.5)
     pr = d.find_element(By.ID, "prompt").get_attribute("value")
     check("Plan This Game sends the brief to Planner", "Collect sugar, upgrade shop, repeat" in pr and "ui-test-idea" in pr and "(not answered)" in pr)
+    # One game picker at the top of the sidebar; every tab follows it.
+    check("making a brief switches the picked game to it", d.execute_script("return state.game") == "ui-test-idea" and d.execute_script("return document.getElementById('game-pick').value") == "ui-test-idea")
+    gp = Select(d.find_element(By.ID, "game-pick")); gp.select_by_value("dawn-watch"); time.sleep(2)
+    d.execute_script("location.hash='#changes'"); time.sleep(2.5)
+    check("the picked game carries to other tabs", d.execute_script("return state.project") == "projects/dawn-watch" and not d.find_elements(By.ID, "project-pick"), str(d.execute_script("return state.project")))
+    d.execute_script("location.hash='#chat'"); time.sleep(2.5)
+    check("Ask Claude follows the picked game", d.execute_script("return state.chatGame") == "dawn-watch" and not d.find_elements(By.ID, "chat-game"))
+    d.execute_script("location.hash='#autopilot'"); time.sleep(2.5)
+    check("Autopilot opens on the picked game", "dawn-watch" in d.find_element(By.ID, "ap-new-title").get_attribute("value") if d.find_elements(By.ID, "ap-new-title") else bool(d.find_elements(By.ID, "ap-note")), view()[:80])
+    names = [o.text for o in Select(d.find_element(By.ID, "game-pick")).options]
+    check("the picker offers + New game", "+ New game" in names, str(names))
     d.execute_script("location.hash='#score'"); time.sleep(10)
     check("Game Score rates the game out of 100 with what to add", "dawn-watch" in view() and "Keeps players playing" in view() and len(d.find_elements(By.CSS_SELECTOR, ".score-num")) >= 1, view()[:140].replace("\n", " "))
     d.save_screenshot(str(SHOTS / "ui-score.png"))
@@ -222,7 +233,7 @@ try:
       const done = arguments[0];
       const c = document.createElement('canvas'); c.width = 64; c.height = 40;
       const g = c.getContext('2d'); g.fillStyle = '#FF3B30'; g.fillRect(0, 0, 64, 40);
-      window.__TAURI__.core.invoke('refs_add', { project: document.getElementById('project-pick').value, name: 'test-ref.png', data: c.toDataURL('image/png'), category: 'Character', note: document.getElementById('ref-note').value, source: 'ui test' })
+      window.__TAURI__.core.invoke('refs_add', { project: state.project, name: 'test-ref.png', data: c.toDataURL('image/png'), category: 'Character', note: document.getElementById('ref-note').value, source: 'ui test' })
         .then(() => done('')).catch((e) => done(String(e)));
     """)
     d.execute_script("location.hash='#ideas'"); time.sleep(1); d.execute_script("location.hash='#references'"); time.sleep(2.5)
